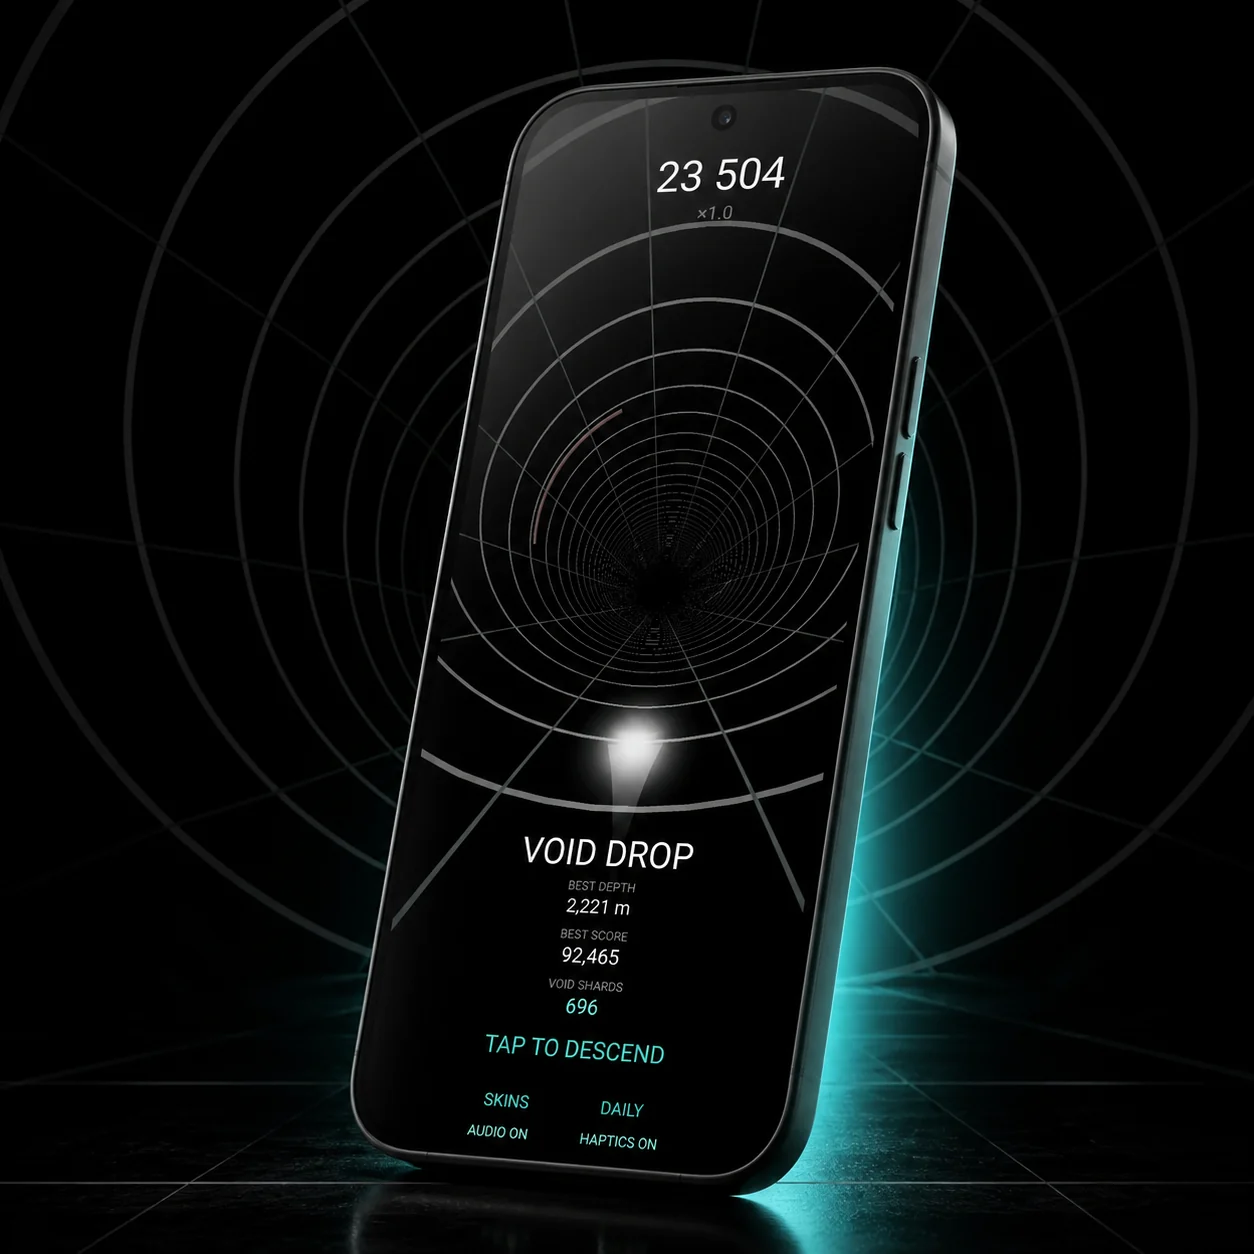
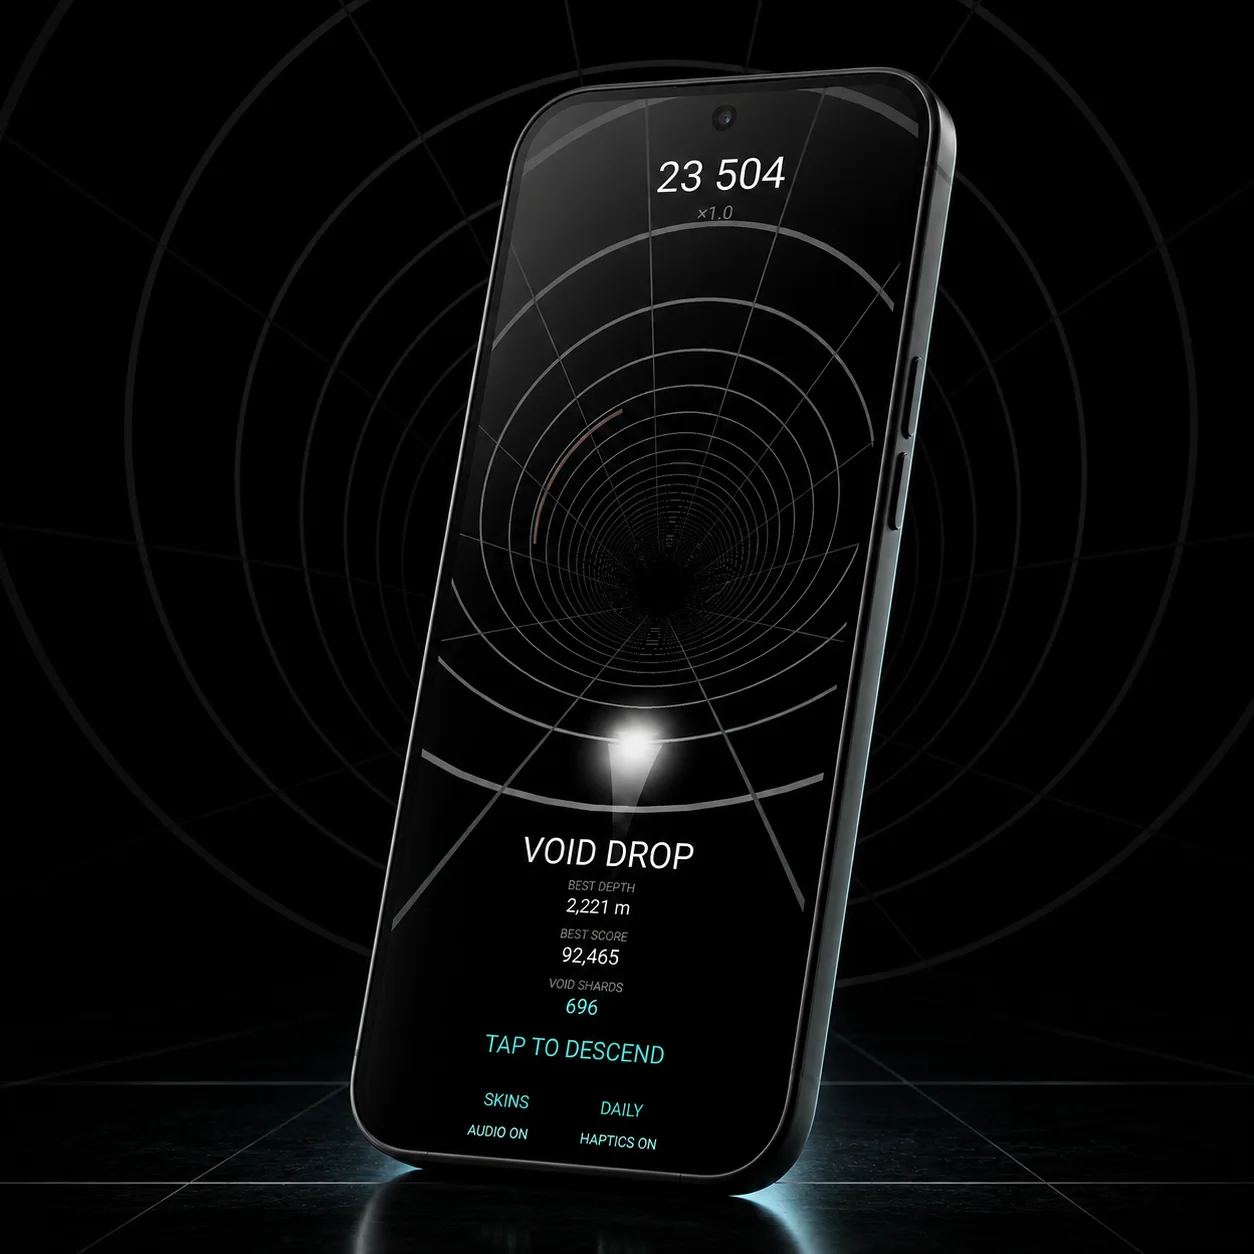
style(projects): rebalance VOID DROP lighting

diff --git a/CHANGELOG.md b/CHANGELOG.md
@@ -15,6 +15,9 @@ stosują [Semantic Versioning](https://semver.org/).
 - Tło manifestu zastąpiono responsywną sceną wnętrza za otwartym portalem,
   która kontynuuje materiał, światło i narrację hero, a następnie naturalnie
   wygasa w czerń pod typografią,
+- Mockup „VOID DROP” otrzymał symetryczne, stonowane światło krawędziowe oraz
+  wycentrowany cień kontaktowy, eliminujące optyczne wrażenie przekrzywienia
+  telefonu bez zmiany jego perspektywy i interfejsu,
 - Mockup „CAN//FORM” zastąpiono spójnym z wyróżnioną kolekcją kadrem
   laptopowym, którego ekran prezentuje pełnoekranową kampanię puszki NOIR w
   ciemnej, industrialnej scenografii zamiast podglądu interfejsu strony,
